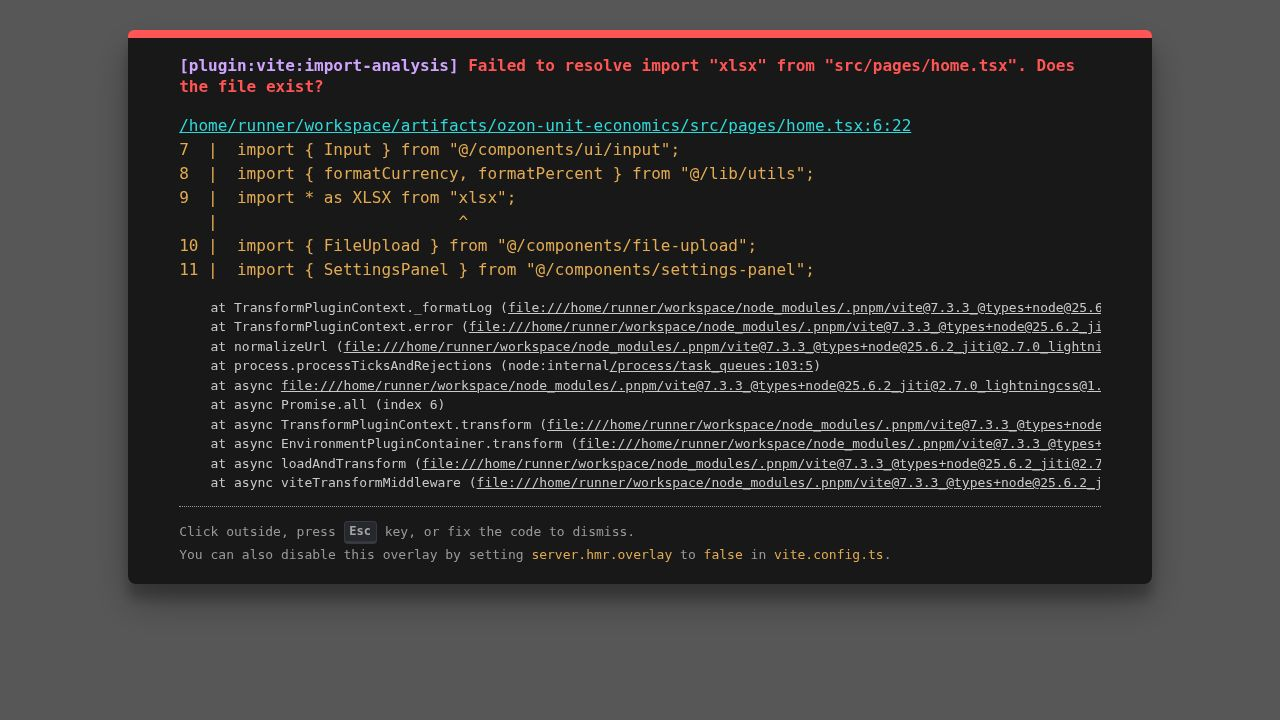
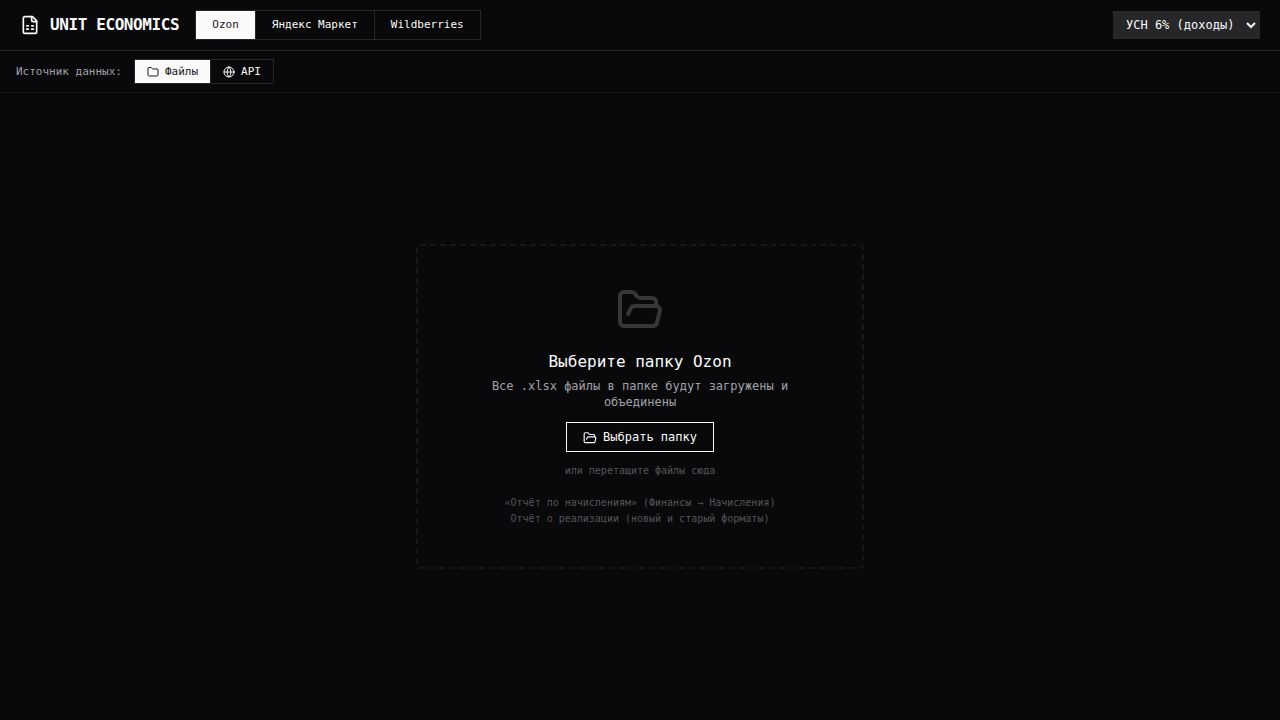
Persist costs and add total advertising spend input
Add localStorage persistence for costs in marketplace hooks and introduce an editable total advertising spend input field in the summary sidebar.

Replit-Commit-Author: Agent
Replit-Commit-Session-Id: cea183f1-20bf-40b0-a878-a877e9e735b4
Replit-Commit-Checkpoint-Type: full_checkpoint
Replit-Commit-Event-Id: d3518365-80bb-48e9-a56d-cf99e55afb53
Replit-Commit-Screenshot-Url: https://storage.googleapis.com/screenshot-production-us-central1/03771079-fe01-43bc-b0cf-ec8277668e05/cea183f1-20bf-40b0-a878-a877e9e735b4/tvnyVkE
Replit-Helium-Checkpoint-Created: true

diff --git a/artifacts/ozon-unit-economics/src/pages/home.tsx b/artifacts/ozon-unit-economics/src/pages/home.tsx
@@ -60,7 +60,19 @@ function ModeToggle({ mode, onChange }: { mode: 'files' | 'api'; onChange: (m: '
 }
 
 // ─── Summary sidebar ──────────────────────────────────────────────────────────
-function SummarySidebar({ s, hasCosts }: { s: ReportSummary; hasCosts: boolean }) {
+function SummarySidebar({ s, hasCosts, adSpend, setAdSpend }: {
+  s: ReportSummary; hasCosts: boolean; adSpend: number; setAdSpend: (v: number) => void;
+}) {
+  const [adInput, setAdInput] = useState(adSpend > 0 ? String(adSpend) : '');
+  const adjProfit = s.netProfit - adSpend;
+  const adjMargin = s.netSales > 0 ? (adjProfit / s.netSales) * 100 : 0;
+
+  const commitAd = (raw: string) => {
+    const v = parseFloat(raw) || 0;
+    setAdSpend(v);
+    setAdInput(v > 0 ? String(v) : '');
+  };
+
   return (
     <aside className="flex-none w-52 bg-card border-r overflow-y-auto p-3 text-xs space-y-0.5">
       <SectionHdr>Ключевые показатели</SectionHdr>
@@ -78,7 +90,7 @@ function SummarySidebar({ s, hasCosts }: { s: ReportSummary; hasCosts: boolean }
       {s.lastMile         > 0 && <MetricRow label="└ Последняя миля" value={`-${formatCurrency(s.lastMile)}`}         sub />}
       {s.agentServices    > 0 && <MetricRow label="Услуги партнёров" value={`-${formatCurrency(s.agentServices)}`} />}
       {s.acquiring        > 0 && <MetricRow label="└ Эквайринг"      value={`-${formatCurrency(s.acquiring)}`}        sub />}
-      {s.promotion        > 0 && <MetricRow label="Продвижение"      value={`-${formatCurrency(s.promotion)}`} />}
+      {s.promotion        > 0 && <MetricRow label="Прод. на платформе" value={`-${formatCurrency(s.promotion)}`} />}
       {s.storage          > 0 && <MetricRow label="Хранение"          value={`-${formatCurrency(s.storage)}`} />}
       {s.fboServices      > 0 && <MetricRow label="Прочие услуги"    value={`-${formatCurrency(s.fboServices)}`} />}
       {s.otherExpenses    > 0 && <MetricRow label="Штрафы/прочее"    value={`-${formatCurrency(s.otherExpenses)}`} />}
@@ -91,14 +103,41 @@ function SummarySidebar({ s, hasCosts }: { s: ReportSummary; hasCosts: boolean }
       {s.vatAmount > 0 && <MetricRow label="НДС"  value={`-${formatCurrency(s.vatAmount)}`} />}
       <MetricRow label="Налог" value={s.taxAmount > 0 ? `-${formatCurrency(s.taxAmount)}` : '—'} />
 
+      {/* Ad spend — editable total */}
+      <SectionHdr>Реклама (общие)</SectionHdr>
+      <div className="flex items-center gap-1">
+        <input
+          type="number" min="0" step="any"
+          value={adInput}
+          onChange={e => setAdInput(e.target.value)}
+          onBlur={e => commitAd(e.target.value)}
+          onKeyDown={e => { if (e.key === 'Enter') { commitAd(adInput); (e.target as HTMLInputElement).blur(); } }}
+          placeholder="0 ₽"
+          className="flex-1 bg-muted/30 border border-border px-2 py-1 text-[11px] tabular-nums font-mono outline-none focus:border-primary/60 placeholder:text-muted-foreground/30"
+        />
+        <span className="text-muted-foreground text-[10px]">₽</span>
+      </div>
+      {adSpend > 0 && (
+        <div className="text-[10px] text-red-400/70 tabular-nums">
+          -{formatCurrency(adSpend)} из прибыли
+        </div>
+      )}
+
       <div className="mt-3 pt-2 border-t border-border">
-        <div className="text-[10px] uppercase tracking-widest text-muted-foreground/50 mb-1">Чистая прибыль</div>
-        <div className={`text-2xl font-bold tabular-nums ${s.netProfit >= 0 ? 'text-green-400' : 'text-red-400'}`}>
-          {formatCurrency(s.netProfit)}
+        <div className="text-[10px] uppercase tracking-widest text-muted-foreground/50 mb-1">
+          {adSpend > 0 ? 'Прибыль с рекламой' : 'Чистая прибыль'}
         </div>
-        <div className={`text-xs mt-0.5 ${s.marginPercent >= 0 ? 'text-green-400/70' : 'text-red-400/70'}`}>
-          Маржа {formatPercent(s.marginPercent)}
+        <div className={`text-2xl font-bold tabular-nums ${adjProfit >= 0 ? 'text-green-400' : 'text-red-400'}`}>
+          {formatCurrency(adjProfit)}
         </div>
+        <div className={`text-xs mt-0.5 ${adjMargin >= 0 ? 'text-green-400/70' : 'text-red-400/70'}`}>
+          Маржа {formatPercent(adjMargin)}
+        </div>
+        {adSpend > 0 && (
+          <div className="text-[10px] text-muted-foreground/50 mt-1">
+            До рекламы: {formatCurrency(s.netProfit)}
+          </div>
+        )}
       </div>
 
       {!hasCosts && (
@@ -148,7 +187,7 @@ function SkuTable({ rows, costs, editingArticle, setEditing, updateCost }: {
   setEditing: (a: string | null) => void;
   updateCost: (article: string, field: 'costPerUnit' | 'vatRate', value: number) => void;
 }) {
-  const cols = ['Артикул','Название','Прод.','Возвр.','Ср. цена','Выручка','Комиссия','Доставка','Партнёры','Реклама','Хранение'];
+  const cols = ['Артикул','Название','Прод.','Возвр.','Ср. цена','Выручка','Комиссия','Доставка','Партнёры','Хранение'];
   return (
     <table className="w-full text-xs border-collapse">
       <thead className="sticky top-[33px] z-10 bg-card">
@@ -179,7 +218,6 @@ function SkuTable({ rows, costs, editingArticle, setEditing, updateCost }: {
               <td className="px-3 py-1.5 text-right tabular-nums text-orange-400/80">{row.ozonCommission > 0 ? `-${formatCurrency(row.ozonCommission)}` : '—'}</td>
               <td className="px-3 py-1.5 text-right tabular-nums text-blue-400/80">{row.deliveryServices > 0 ? `-${formatCurrency(row.deliveryServices)}` : '—'}</td>
               <td className="px-3 py-1.5 text-right tabular-nums text-purple-400/80">{row.agentServices > 0 ? `-${formatCurrency(row.agentServices)}` : '—'}</td>
-              <td className="px-3 py-1.5 text-right tabular-nums text-pink-400/80">{row.promotion > 0 ? `-${formatCurrency(row.promotion)}` : '—'}</td>
               <td className="px-3 py-1.5 text-right tabular-nums text-cyan-400/80">{(row.storage + row.fboServices) > 0 ? `-${formatCurrency(row.storage + row.fboServices)}` : '—'}</td>
               <td className="px-1 py-0.5 text-right" onClick={e => { e.stopPropagation(); setEditing(row.article); }}>
                 {isEditing ? (
@@ -449,6 +487,8 @@ function OzonTabContent({ mp, api }: {
   };
 
   const [editingArticle, setEditingArticle] = useState<string | null>(null);
+  const [adSpend, setAdSpendState] = useState<number>(() => parseFloat(localStorage.getItem('ozon_ad_spend') ?? '0') || 0);
+  const setAdSpend = (v: number) => { setAdSpendState(v); localStorage.setItem('ozon_ad_spend', String(v)); };
 
   // Active data source
   const active   = mode === 'files' ? mp  : api;
@@ -473,7 +513,7 @@ function OzonTabContent({ mp, api }: {
 
   return (
     <div className="flex-1 flex overflow-hidden">
-      {hasData && <SummarySidebar s={active.summary} hasCosts={active.hasCosts} />}
+      {hasData && <SummarySidebar s={active.summary} hasCosts={active.hasCosts} adSpend={adSpend} setAdSpend={setAdSpend} />}
       <div className="flex-1 flex flex-col overflow-hidden" onClick={() => setEditingArticle(null)}>
 
         {/* Mode toggle always visible */}
@@ -562,6 +602,9 @@ function YmTabContent({ mp, api }: {
   };
 
   const [editingArticle, setEditingArticle] = useState<string | null>(null);
+  const [adSpend, setAdSpendState] = useState<number>(() => parseFloat(localStorage.getItem('ym_ad_spend') ?? '0') || 0);
+  const setAdSpend = (v: number) => { setAdSpendState(v); localStorage.setItem('ym_ad_spend', String(v)); };
+
   const active  = mode === 'files' ? mp  : api;
   const hasData = active.rows.length > 0;
 
@@ -582,7 +625,7 @@ function YmTabContent({ mp, api }: {
 
   return (
     <div className="flex-1 flex overflow-hidden">
-      {hasData && <SummarySidebar s={active.summary} hasCosts={active.hasCosts} />}
+      {hasData && <SummarySidebar s={active.summary} hasCosts={active.hasCosts} adSpend={adSpend} setAdSpend={setAdSpend} />}
       <div className="flex-1 flex flex-col overflow-hidden" onClick={() => setEditingArticle(null)}>
 
         {!hasData && (
@@ -655,6 +698,8 @@ function YmTabContent({ mp, api }: {
 // ─── WB tab ───────────────────────────────────────────────────────────────────
 function WbTabContent({ wb }: { wb: ReturnType<typeof useWildberries> }) {
   const [editingArticle, setEditingArticle] = useState<string | null>(null);
+  const [adSpend, setAdSpendState] = useState<number>(() => parseFloat(localStorage.getItem('wb_ad_spend') ?? '0') || 0);
+  const setAdSpend = (v: number) => { setAdSpendState(v); localStorage.setItem('wb_ad_spend', String(v)); };
   const hasData = wb.rows.length > 0;
 
   const setThisMonth = () => {
@@ -683,7 +728,7 @@ function WbTabContent({ wb }: { wb: ReturnType<typeof useWildberries> }) {
 
   return (
     <div className="flex-1 flex overflow-hidden">
-      {hasData && <SummarySidebar s={wb.summary} hasCosts={wb.hasCosts} />}
+      {hasData && <SummarySidebar s={wb.summary} hasCosts={wb.hasCosts} adSpend={adSpend} setAdSpend={setAdSpend} />}
       <div className="flex-1 flex flex-col overflow-hidden" onClick={() => setEditingArticle(null)}>
 
         <ApiSettingsBar

diff --git a/artifacts/ozon-unit-economics/src/hooks/use-wildberries.ts b/artifacts/ozon-unit-economics/src/hooks/use-wildberries.ts
@@ -1,4 +1,4 @@
-import { useState, useMemo, useCallback } from 'react';
+import { useState, useMemo, useCallback, useEffect } from 'react';
 import { OzonReportRow, SkuCost, TaxSettings, CalculatedRow, ReportSummary } from '../types';
 import { fetchWBReport, parseWBRows } from '../lib/wb-api';
 import { calcRow, calcSummary } from '../lib/calculator';
@@ -16,27 +16,35 @@ function firstOfMonthStr() {
 }
 
 const LS_TOKEN_KEY = 'wb_api_token';
+const LS_COSTS_KEY = 'costs_wb_api';
+function loadCosts(): Record<string, SkuCost> {
+  try { const s = localStorage.getItem(LS_COSTS_KEY); return s ? JSON.parse(s) : {}; } catch { return {}; }
+}
 
 export function useWildberries(tax: TaxSettings, setTax: (t: TaxSettings) => void) {
-  const [rows, setRows]       = useState<OzonReportRow[]>([]);
-  const [costs, setCosts]     = useState<Record<string, SkuCost>>({});
-  const [filter, setFilter]   = useState<FilterType>('all');
-  const [loading, setLoading] = useState(false);
-  const [error, setError]     = useState<string | null>(null);
-  const [rowCount, setRowCount] = useState<number | null>(null); // raw WB rows loaded
+  const [rows, setRows]         = useState<OzonReportRow[]>([]);
+  const [costs, setCosts]       = useState<Record<string, SkuCost>>(loadCosts);
+  const [filter, setFilter]     = useState<FilterType>('all');
+  const [loading, setLoading]   = useState(false);
+  const [error, setError]       = useState<string | null>(null);
+  const [rowCount, setRowCount] = useState<number | null>(null);
 
   // API token — persisted in localStorage
   const [token, setTokenState] = useState<string>(
     () => localStorage.getItem(LS_TOKEN_KEY) ?? ''
   );
+  // Date range — default to current month
+  const [dateFrom, setDateFrom] = useState(firstOfMonthStr);
+  const [dateTo,   setDateTo]   = useState(todayStr);
+
+  useEffect(() => {
+    try { localStorage.setItem(LS_COSTS_KEY, JSON.stringify(costs)); } catch {}
+  }, [costs]);
+
   const setToken = useCallback((t: string) => {
     setTokenState(t);
     localStorage.setItem(LS_TOKEN_KEY, t);
   }, []);
-
-  // Date range — default to current month
-  const [dateFrom, setDateFrom] = useState(firstOfMonthStr);
-  const [dateTo,   setDateTo]   = useState(todayStr);
 
   const calculatedRows = useMemo((): CalculatedRow[] => {
     return rows
@@ -62,7 +70,7 @@ export function useWildberries(tax: TaxSettings, setTax: (t: TaxSettings) => voi
       const raw = await fetchWBReport(token.trim(), dateFrom, dateTo, count => setRowCount(count));
       const parsed = parseWBRows(raw);
       setRows(parsed);
-      setCosts({});
+      // Do NOT reset costs — they persist across reloads
       setRowCount(raw.length);
       if (parsed.length === 0) setError('Нет данных за выбранный период');
     } catch (e) {

diff --git a/artifacts/ozon-unit-economics/src/hooks/use-ozon-api.ts b/artifacts/ozon-unit-economics/src/hooks/use-ozon-api.ts
@@ -1,4 +1,4 @@
-import { useState, useMemo, useCallback } from 'react';
+import { useState, useMemo, useCallback, useEffect } from 'react';
 import { OzonReportRow, SkuCost, TaxSettings, CalculatedRow, ReportSummary } from '../types';
 import { fetchOzonReport, parseOzonOperations } from '../lib/ozon-api-client';
 import { calcRow, calcSummary } from '../lib/calculator';
@@ -14,22 +14,30 @@ const firstOfMonth  = () => {
 };
 
 const LS = (k: string) => `ozon_api_${k}`;
+const LS_COSTS_KEY = 'costs_ozon_api';
+function loadCosts(): Record<string, SkuCost> {
+  try { const s = localStorage.getItem(LS_COSTS_KEY); return s ? JSON.parse(s) : {}; } catch { return {}; }
+}
 
 export function useOzonApi(tax: TaxSettings, setTax: (t: TaxSettings) => void) {
-  const [rows,    setRows]    = useState<OzonReportRow[]>([]);
-  const [costs,   setCosts]   = useState<Record<string, SkuCost>>({});
-  const [filter,  setFilter]  = useState<FilterType>('all');
-  const [loading, setLoading] = useState(false);
-  const [error,   setError]   = useState<string | null>(null);
-  const [opCount, setOpCount] = useState<number | null>(null);
+  const [rows,     setRows]    = useState<OzonReportRow[]>([]);
+  const [costs,    setCosts]   = useState<Record<string, SkuCost>>(loadCosts);
+  const [filter,   setFilter]  = useState<FilterType>('all');
+  const [loading,  setLoading] = useState(false);
+  const [error,    setError]   = useState<string | null>(null);
+  const [opCount,  setOpCount] = useState<number | null>(null);
 
   const [clientId, setClientIdState] = useState(() => localStorage.getItem(LS('client_id')) ?? '');
   const [apiKey,   setApiKeyState]   = useState(() => localStorage.getItem(LS('api_key'))   ?? '');
+  const [dateFrom, setDateFrom]      = useState(firstOfMonth);
+  const [dateTo,   setDateTo]        = useState(todayStr);
+
+  useEffect(() => {
+    try { localStorage.setItem(LS_COSTS_KEY, JSON.stringify(costs)); } catch {}
+  }, [costs]);
+
   const setClientId = useCallback((v: string) => { setClientIdState(v); localStorage.setItem(LS('client_id'), v); }, []);
   const setApiKey   = useCallback((v: string) => { setApiKeyState(v);   localStorage.setItem(LS('api_key'),   v); }, []);
-
-  const [dateFrom, setDateFrom] = useState(firstOfMonth);
-  const [dateTo,   setDateTo]   = useState(todayStr);
 
   const calculatedRows = useMemo((): CalculatedRow[] =>
     rows
@@ -55,7 +63,7 @@ export function useOzonApi(tax: TaxSettings, setTax: (t: TaxSettings) => void) {
       const ops    = await fetchOzonReport(clientId.trim(), apiKey.trim(), dateFrom, dateTo);
       const parsed = parseOzonOperations(ops);
       setRows(parsed);
-      setCosts({});
+      // Do NOT reset costs — they persist across reloads
       setOpCount(ops.length);
       if (parsed.length === 0) setError('Нет данных за выбранный период');
     } catch (e) {

diff --git a/artifacts/ozon-unit-economics/src/hooks/use-ym-api.ts b/artifacts/ozon-unit-economics/src/hooks/use-ym-api.ts
@@ -1,4 +1,4 @@
-import { useState, useMemo, useCallback } from 'react';
+import { useState, useMemo, useCallback, useEffect } from 'react';
 import { OzonReportRow, SkuCost, TaxSettings, CalculatedRow, ReportSummary } from '../types';
 import { fetchYMReport, parseYMOrders } from '../lib/ym-api-client';
 import { calcRow, calcSummary } from '../lib/calculator';
@@ -14,10 +14,14 @@ const firstOfMonth = () => {
 };
 
 const LS = (k: string) => `ym_api_${k}`;
+const LS_COSTS_KEY = 'costs_ym_api';
+function loadCosts(): Record<string, SkuCost> {
+  try { const s = localStorage.getItem(LS_COSTS_KEY); return s ? JSON.parse(s) : {}; } catch { return {}; }
+}
 
 export function useYmApi(tax: TaxSettings, setTax: (t: TaxSettings) => void) {
   const [rows,        setRows]       = useState<OzonReportRow[]>([]);
-  const [costs,       setCosts]      = useState<Record<string, SkuCost>>({});
+  const [costs,       setCosts]      = useState<Record<string, SkuCost>>(loadCosts);
   const [filter,      setFilter]     = useState<FilterType>('all');
   const [loading,     setLoading]    = useState(false);
   const [error,       setError]      = useState<string | null>(null);
@@ -25,11 +29,15 @@ export function useYmApi(tax: TaxSettings, setTax: (t: TaxSettings) => void) {
 
   const [token,      setTokenState]      = useState(() => localStorage.getItem(LS('token'))       ?? '');
   const [campaignId, setCampaignIdState] = useState(() => localStorage.getItem(LS('campaign_id')) ?? '');
+  const [dateFrom, setDateFrom]          = useState(firstOfMonth);
+  const [dateTo,   setDateTo]            = useState(todayStr);
+
+  useEffect(() => {
+    try { localStorage.setItem(LS_COSTS_KEY, JSON.stringify(costs)); } catch {}
+  }, [costs]);
+
   const setToken      = useCallback((v: string) => { setTokenState(v);      localStorage.setItem(LS('token'),       v); }, []);
   const setCampaignId = useCallback((v: string) => { setCampaignIdState(v); localStorage.setItem(LS('campaign_id'), v); }, []);
-
-  const [dateFrom, setDateFrom] = useState(firstOfMonth);
-  const [dateTo,   setDateTo]   = useState(todayStr);
 
   const calculatedRows = useMemo((): CalculatedRow[] =>
     rows
@@ -55,7 +63,7 @@ export function useYmApi(tax: TaxSettings, setTax: (t: TaxSettings) => void) {
       const orders = await fetchYMReport(token.trim(), campaignId.trim(), dateFrom, dateTo);
       const parsed = parseYMOrders(orders);
       setRows(parsed);
-      setCosts({});
+      // Do NOT reset costs — they persist across reloads
       setOrderCount(orders.length);
       if (parsed.length === 0) setError('Нет данных за выбранный период');
     } catch (e) {

diff --git a/artifacts/ozon-unit-economics/src/hooks/use-marketplace.ts b/artifacts/ozon-unit-economics/src/hooks/use-marketplace.ts
@@ -1,4 +1,4 @@
-import { useState, useMemo, useCallback } from 'react';
+import { useState, useMemo, useCallback, useEffect } from 'react';
 import { OzonReportRow, SkuCost, TaxSettings, ReportFormat, CalculatedRow, ReportSummary } from '../types';
 import { parseOzonReport } from '../lib/excel';
 import { mergeOzonRows } from '../lib/merge';
@@ -24,14 +24,24 @@ function formatBelongsTo(fmt: ReportFormat, kind: MarketplaceKind): boolean {
   return fmt === 'nacisleniya' || fmt === 'new' || fmt === 'old';
 }
 
+const costsKey = (kind: MarketplaceKind) => `costs_${kind}_file`;
+
+function loadCosts(key: string): Record<string, SkuCost> {
+  try { const s = localStorage.getItem(key); return s ? JSON.parse(s) : {}; } catch { return {}; }
+}
+
 export function useMarketplace(kind: MarketplaceKind, sharedTax: TaxSettings, setSharedTax: (t: TaxSettings) => void) {
   const [rows, setRows] = useState<OzonReportRow[]>([]);
-  const [costs, setCosts] = useState<Record<string, SkuCost>>({});
+  const [costs, setCosts] = useState<Record<string, SkuCost>>(() => loadCosts(costsKey(kind)));
   const [filter, setFilter] = useState<FilterType>('all');
   const [loadedFiles, setLoadedFiles] = useState<LoadedFile[]>([]);
   const [folderName, setFolderName] = useState<string | null>(null);
   const [loading, setLoading] = useState(false);
   const [error, setError] = useState<string | null>(null);
+
+  useEffect(() => {
+    try { localStorage.setItem(costsKey(kind), JSON.stringify(costs)); } catch {}
+  }, [costs, kind]);
 
   const calculatedRows = useMemo((): CalculatedRow[] => {
     return rows
@@ -72,7 +82,7 @@ export function useMarketplace(kind: MarketplaceKind, sharedTax: TaxSettings, se
     }
 
     setLoadedFiles(newFiles);
-    setCosts({});
+    // Do NOT reset costs — they persist across reloads
 
     if (batches.length > 0) {
       setRows(mergeOzonRows(batches));